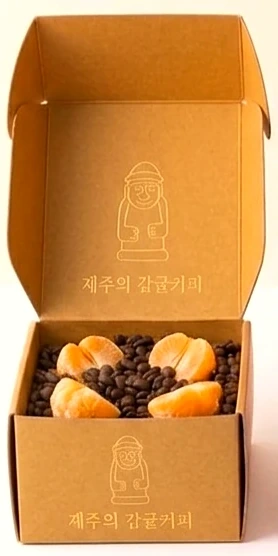
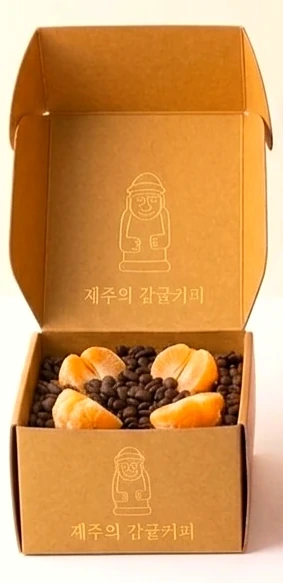
재단 수정: 상자 덮개가 잘리지 않게 범위를 다시 잡는다
윤곽 세기 임계값을 '최대값의 몇 %'로 잡은 게 문제였다. 그늘진 덮개 가장자리는
윤곽이 약해 그 기준에 못 미쳐 잘려 나갔다.

- 임계값을 배경 바닥값 기준으로 바꾼다. 배경만 있는 구간의 세기를 재고,
  거기서 조금이라도 올라오면 피사체로 본다.
- 판정 오차를 흡수할 여유를 6px 준다. 배경이 조금 남는 건 바탕색과 같아
  보이지 않지만, 상자가 잘리는 건 바로 보인다.

세 상자 모두 잘라낸 결과를 확대해 네 변을 확인했다. 덮개·본체 모두 온전하다.

diff --git a/lib/content.js b/lib/content.js
@@ -224,9 +224,9 @@ export const PRODUCTS = [
 ];
 
 export const EDITIONS = [
-  { r: "Jeju", t: "제주의 감귤커피", d: "감귤 발효 · 시트러스 아로마", img: "/img/crop/pkg-jeju.webp", bg: "linear-gradient(#fffdeb, #fffff9)" },
-  { r: "Nonsan", t: "논산의 딸기커피", d: "딸기 발효 · 선명한 산미", img: "/img/crop/pkg-nonsan.webp", bg: "linear-gradient(#ffedd4, #fce8e6)" },
-  { r: "Wonju", t: "원주의 복숭아커피", d: "복숭아 발효 · 부드러운 단맛", img: "/img/crop/pkg-wonju.webp", bg: "linear-gradient(#fce3cd, #f6e9e8)" },
+  { r: "Jeju", t: "제주의 감귤커피", d: "감귤 발효 · 시트러스 아로마", img: "/img/crop/pkg-jeju.webp", bg: "linear-gradient(#fffce9, #fffff9)" },
+  { r: "Nonsan", t: "논산의 딸기커피", d: "딸기 발효 · 선명한 산미", img: "/img/crop/pkg-nonsan.webp", bg: "linear-gradient(#fff3db, #fff4f0)" },
+  { r: "Wonju", t: "원주의 복숭아커피", d: "복숭아 발효 · 부드러운 단맛", img: "/img/crop/pkg-wonju.webp", bg: "linear-gradient(#ffe9d0, #fdf0ee)" },
 ];
 
 export const BIZ = [

diff --git a/scripts/crop-photos.py b/scripts/crop-photos.py
@@ -1,16 +1,21 @@
 #!/usr/bin/env python3
-"""상자 사진을 피사체에 맞춰 잘라내고, 사진의 배경색을 함께 알려준다.
+"""상자 사진을 상자에 맞춰 잘라내고, 사진의 배경색을 함께 알려준다.
 
-원본은 피사체가 프레임의 절반 남짓만 차지하고 나머지는 빈 스튜디오 배경이라,
+원본은 상자가 프레임의 절반 남짓만 차지하고 나머지는 빈 스튜디오 배경이라,
 화면 폭에 맞춰 늘리면 여백만 커지고 해상도는 낭비된다.
 
 배경을 알파로 빼는 방식은 쓰지 않는다. 분홍 상자처럼 배경과 명도가 거의 같은
 컷은 어떤 자동 분리도 상자를 파먹거나 배경을 못 지우거나 둘 중 하나였다.
 (배경 대비가 뚜렷한 과실 사진은 scripts/cutout.py 가 알파로 분리한다.)
-대신 사진은 그대로 두고 잘라내기만 한 뒤, 그 사진의 배경색을 웹 페이지의
-바탕색으로 쓴다. 이러면 사진 경계가 보이지 않으면서 잘릴 위험은 0 이다.
 
-    pip install pillow numpy scipy opencv-python-headless
+대신 사진은 그대로 두고 잘라내기만 한 뒤, 그 사진의 배경색을 웹 페이지의
+바탕색으로 쓴다. 사진 경계가 보이지 않으면서 잘릴 위험은 0 이다.
+
+범위는 색이 아니라 윤곽으로 찾는다. 배경은 매끄러워 기울기가 거의 없고 상자는
+접힌 선·인쇄·모서리가 있어, 열/행별 윤곽 세기만 봐도 배경 대비와 무관하게
+상자가 어디부터 어디까지인지 알 수 있다.
+
+    pip install pillow numpy opencv-python-headless
     python3 scripts/crop-photos.py
 """
 
@@ -21,7 +26,6 @@ from pathlib import Path
 import cv2
 import numpy as np
 from PIL import Image
-from scipy import ndimage
 
 ROOT = Path(__file__).resolve().parent.parent
 SRC = ROOT / "public/img"
@@ -29,54 +33,54 @@ OUT = ROOT / "public/img/crop"
 
 TARGETS = ["pkg-jeju", "pkg-nonsan", "pkg-wonju"]
 
-TOLS = (2, 3, 4, 5, 6, 7, 8, 10)
-MARGIN = 0.03      # 잘라낸 뒤 남길 여백(피사체 크기 대비)
+EDGE_FLOOR = 6.0    # 이보다 약한 기울기는 배경의 그라데이션으로 본다
+# 임계값은 '최대값의 몇 %'가 아니라 '배경 바닥값보다 얼마나 높은가'로 잡는다.
+# 최대값 기준으로 하면 그늘진 덮개 가장자리처럼 윤곽이 약한 부분이 잘려 나간다.
+SPAN_FRAC = 0.015
+PAD_PX = 6          # 판정 오차를 흡수할 여유. 배경이 조금 남는 건 바탕색과 같아 안 보인다
+MARGIN = 0.02       # 잘라낸 뒤 남길 여백(피사체 크기 대비)
 
 
-def _flood_background(bgr, tol):
-    """테두리에서 배경만 번지게 한다. 뚜렷한 색 경계는 넘지 못한다."""
-    h, w = bgr.shape[:2]
-    filled = np.zeros((h, w), bool)
-    # 좌우 가장자리는 피사체가 닿아 있을 수 있어 위아래에서만 씨를 뿌린다
-    seeds = [(0, 0), (w - 1, 0), (0, h - 1), (w - 1, h - 1)]
-    seeds += [(int(w * f), 0) for f in (0.2, 0.4, 0.6, 0.8)]
-    seeds += [(int(w * f), h - 1) for f in (0.2, 0.4, 0.6, 0.8)]
-    for sx, sy in seeds:
-        if filled[sy, sx]:
-            continue
-        m = np.zeros((h + 2, w + 2), np.uint8)
-        m[1:-1, 1:-1] = filled.astype(np.uint8)
-        cv2.floodFill(bgr.copy(), m, (sx, sy), 0, (tol,) * 3, (tol,) * 3,
-                      4 | cv2.FLOODFILL_MASK_ONLY | (255 << 8))
-        filled |= m[1:-1, 1:-1] > 0
-    fg = ndimage.binary_fill_holes(~filled).astype(np.uint8)
-    lab, n = ndimage.label(fg)
-    if not n:
-        return None
-    sizes = ndimage.sum(fg, lab, range(1, n + 1))
-    keep = [i + 1 for i, s in enumerate(sizes) if s >= sizes.max() * 0.05]
-    return ndimage.binary_fill_holes(np.isin(lab, keep)).astype(np.uint8)
+def subject_box(rgb):
+    """열·행별 윤곽 세기로 피사체 범위를 찾는다."""
+    g = cv2.GaussianBlur(cv2.cvtColor(rgb, cv2.COLOR_RGB2GRAY).astype(np.float32), (0, 0), 1.0)
+    mag = np.hypot(cv2.Sobel(g, cv2.CV_32F, 1, 0, ksize=3),
+                   cv2.Sobel(g, cv2.CV_32F, 0, 1, ksize=3))
+    mag[mag < EDGE_FLOOR] = 0
+
+    def span(profile):
+        p = cv2.GaussianBlur(profile.reshape(1, -1), (0, 0), 3).ravel()
+        base = np.percentile(p, 10)               # 배경만 있는 구간의 세기
+        idx = np.flatnonzero(p > base + (p.max() - base) * SPAN_FRAC)
+        if not len(idx):
+            return None
+        return max(0, int(idx.min()) - PAD_PX), min(len(p) - 1, int(idx.max()) + PAD_PX)
+
+    xs = span(mag.sum(axis=0))
+    ys = span(mag.sum(axis=1))
+    return None if xs is None or ys is None else (xs[0], xs[1], ys[0], ys[1])
 
 
-def subject_box(bgr):
-    """자를 범위를 정한다.
+def ground_colors(rgb, box):
+    """상자 바로 위·아래의 배경색. 웹 페이지 바탕 그라데이션으로 쓴다."""
+    x0, x1, y0, y1 = box
+    h = rgb.shape[0]
 
-    허용치를 키우면 배경이 더 지워지다가, 경계를 넘는 순간 피사체까지 삼켜
-    면적이 급락한다. 급락 직전 값을 쓰면 피사체를 자르지 않는다.
-    """
-    prev_area, chosen = None, None
-    for tol in TOLS:
-        fg = _flood_background(cv2.GaussianBlur(bgr, (0, 0), 0.8), tol)
-        if fg is None:
-            break
-        area = int(fg.sum())
-        if prev_area is not None and area < prev_area * 0.7:
-            break                      # 경계를 넘었다 — 직전 것을 쓴다
-        prev_area, chosen = area, fg
-    if chosen is None:
-        return None
-    ys, xs = np.where(chosen)
-    return xs.min(), xs.max(), ys.min(), ys.max()
+    def sample(rows):
+        if not len(rows):
+            return None
+        px = rows[:, x0:x1 + 1].reshape(-1, 3).astype(np.float32)
+        bright = px[px.sum(axis=1) >= np.percentile(px.sum(axis=1), 60)]
+        return np.median(bright, axis=0)
+
+    top = sample(rgb[max(0, y0 - 14):y0])
+    bot = sample(rgb[y1 + 1:min(h, y1 + 15)])
+    if top is None:
+        top = bot
+    if bot is None:
+        bot = top
+    fmt = lambda c: "#{:02x}{:02x}{:02x}".format(*c.round().astype(int))
+    return fmt(top), fmt(bot)
 
 
 def main():
@@ -87,43 +91,25 @@ def main():
         if not src.exists():
             sys.exit(f"원본 없음: {src}")
         im = Image.open(src).convert("RGB")
-        bgr = cv2.cvtColor(np.asarray(im), cv2.COLOR_RGB2BGR)
+        rgb = np.asarray(im)
 
-        box = subject_box(bgr)
+        box = subject_box(rgb)
         if box is None:
             sys.exit(f"피사체를 찾지 못했습니다: {name}")
         x0, x1, y0, y1 = box
+        top, bot = ground_colors(rgb, box)
+
         pad_x = int((x1 - x0) * MARGIN)
         pad_y = int((y1 - y0) * MARGIN)
         crop = im.crop((max(0, x0 - pad_x), max(0, y0 - pad_y),
                         min(im.width, x1 + 1 + pad_x), min(im.height, y1 + 1 + pad_y)))
         crop.save(OUT / f"{name}.webp", "WEBP", quality=92, method=6)
 
-        # 잘라낸 사진의 배경색 — 웹 페이지 바탕색으로 쓴다.
-        # 배경이 위아래로 옅은 그라데이션이라 단색으로 깔면 사진 경계가 드러난다.
-        # 위쪽 가장자리와 아래쪽 가장자리 색을 따로 뽑아 같은 방향 그라데이션을 만든다.
-        a = np.asarray(crop).astype(np.float32)
-        band = max(2, int(a.shape[0] * 0.04))
-        side = max(2, int(a.shape[1] * 0.06))
-
-        def edge_color(rows):
-            """가장자리 픽셀 중 밝은 쪽(=배경) 색. 그림자·색 띠에 끌려가지 않게."""
-            px = np.concatenate([rows[:, :side].reshape(-1, 3),
-                                 rows[:, -side:].reshape(-1, 3)])
-            bright = px[px.sum(axis=1) >= np.percentile(px.sum(axis=1), 70)]
-            return np.median(bright, axis=0).round().astype(int)
-
-        def hexed(c):
-            return "#{:02x}{:02x}{:02x}".format(*c)
-
-        top = edge_color(a[:band * 3])
-        bot = edge_color(a[-band * 3:])
-        grounds[name] = {"top": hexed(top), "bottom": hexed(bot)}
+        grounds[name] = {"top": top, "bottom": bot}
         kb = (OUT / f"{name}.webp").stat().st_size / 1024
-        print(f"{name:18} {im.size} → {crop.size}  {kb:5.1f} KB  바탕 {grounds[name]['top']} → {grounds[name]['bottom']}")
+        print(f"{name:12} {im.size} → {crop.size}  {kb:5.1f} KB  바탕 {top} → {bot}")
 
-    (OUT / "grounds.json").write_text(
-        json.dumps(grounds, indent=2) + "\n", encoding="utf-8")
+    (OUT / "grounds.json").write_text(json.dumps(grounds, indent=2) + "\n", encoding="utf-8")
     print(f"\n바탕색 → {OUT / 'grounds.json'}")
 
 
